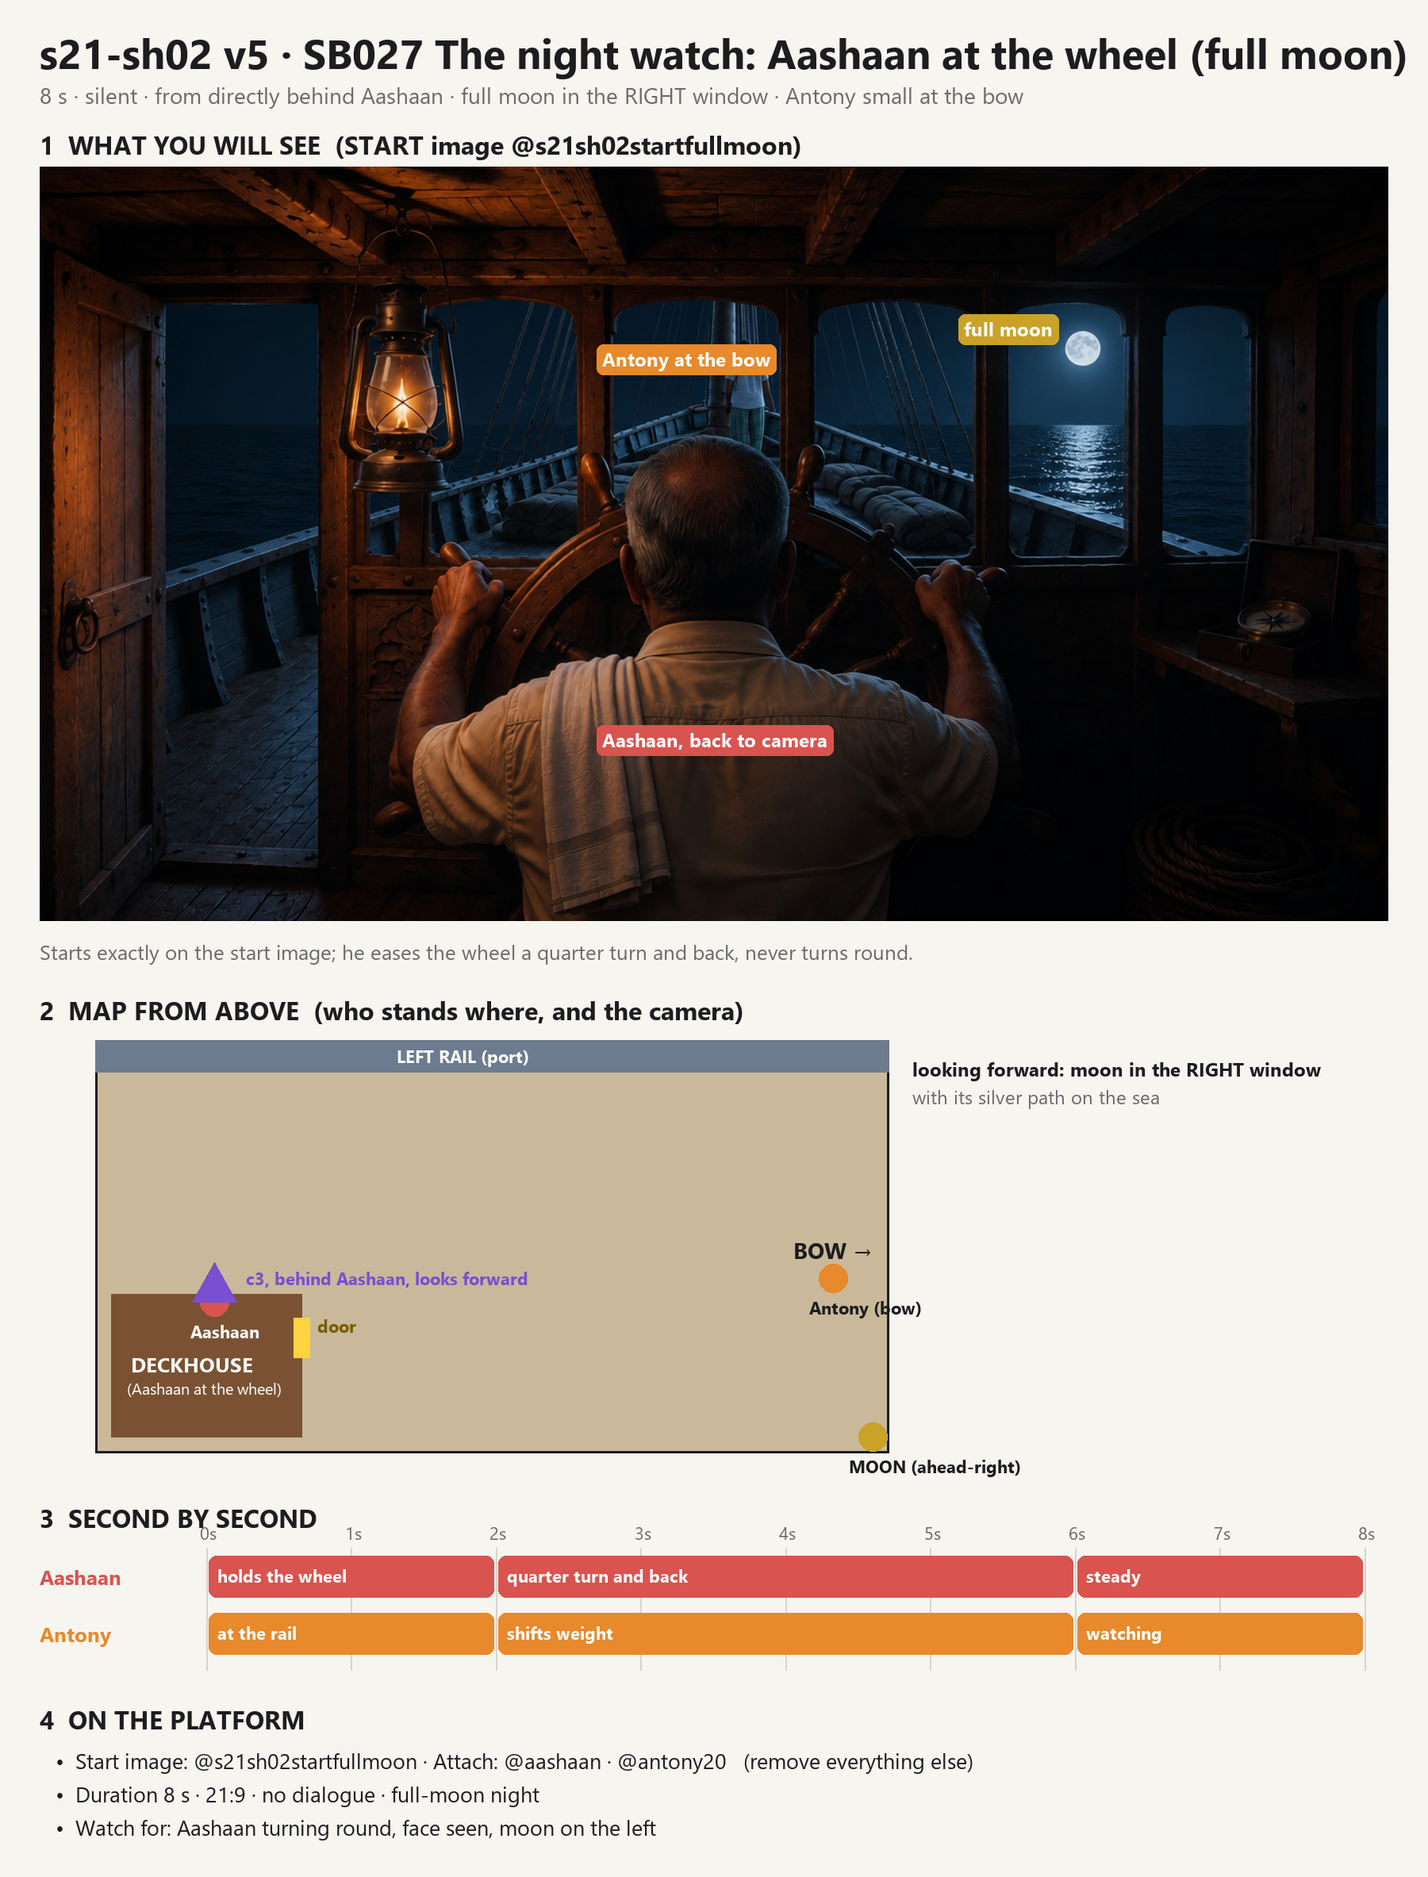
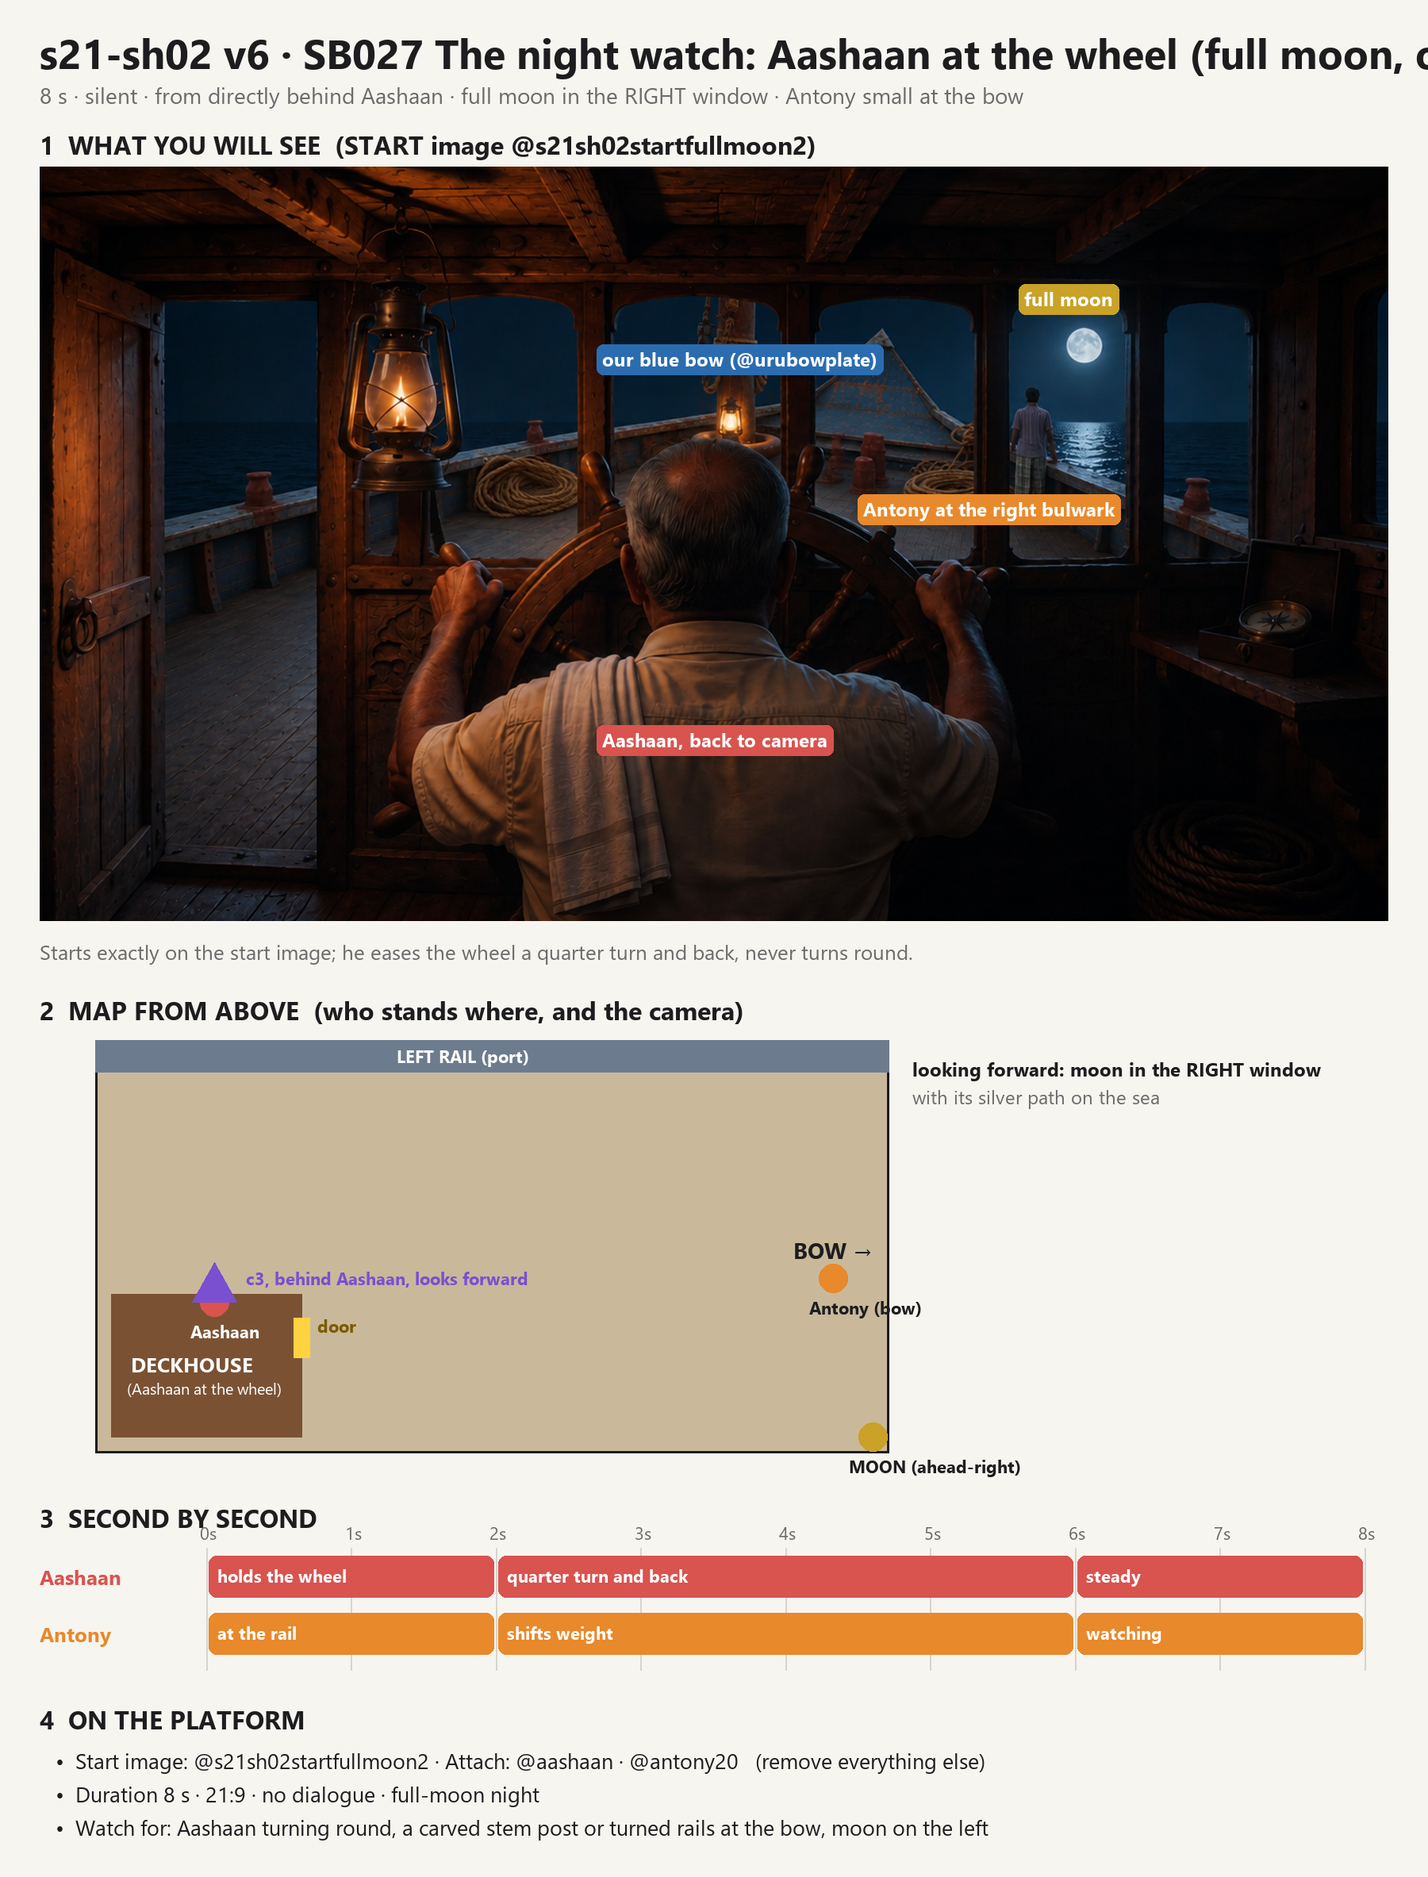
Ranjith: shot: s21-sh02 v6 (start frame with our bow)

diff --git a/scenes/showreel/retired/s21-sh02-v5.md b/scenes/showreel/retired/s21-sh02-v5.md
@@ -1,0 +1,78 @@
+# Shot s21-sh02 · SB027 The night watch, 2: Aashaan at the wheel inside the deckhouse (8 s, silent) — v5
+Status: **ready, proposal** (v5, full-moon redo, Ranjith 2026-11-11; v4 kept in `retired/s21-sh02-v4.md`). Wheel inside the deckhouse (Ranjith's option C, 2026-11-07). The storyboard's "Moosakka" at the wheel is Aashaan (Ranjith).
+Storyboard: SB027 · source scene 21–22 · emotion "Quiet" (silent shot, no tag) · storyboard sheet `storyboards/sb027-storyboard.png`
+Created by: Ranjith, 2026-11-07
+Camera position: urudeck-c3-helm-night (inside the deckhouse, about 2 m directly behind the wheel and a little above Aashaan's head, centred, looking forward through the windows to the bow)
+References: @s21sh02startfullmoon (start image), @aashaan (full, from behind), @antony20 (full, small at the bow)
+Reference sweep (left out, and why): @urudeckc3platenight: not attached with the start frame (the empty plate pulled the model to put Aashaan beyond the wheel, L82; the start frame already shows the wheelhouse). @uru: its own deckhouse (L51). @antonybag: not on him on night watch.
+Continuity: after SB022 (the uru left Cochin) and the voyage scenes SB023–SB026 (Ananthu, Aswanth). Next: SB028, Antony at the bow notices a distant light (same bow view).
+
+## History
+- v5 (2026-11-11): Ranjith: redone for the full-moon night in the look of his reference video (`continuity/night-fullmoon-look/`): full-moon plates, moon placed by the night sheet (L142), blue readable moonlight with one warm lantern. Only the light, the moon and the plate IDs changed (L114).
+- v4: start frame remade 2026-11-07 with Kling O1 for a natural, photographic low-light look (Ranjith found the GPT Image version cartoonish); old one kept as `approved/s21-sh02-start-v1.png`.
+- v4: starts on the start image `approved/s21-sh02-start.png` (@s21sh02start): Aashaan from directly behind, between the camera and the wheel; placement written relative to the camera; his face locked unseen (L82). v3: `retired/s21-sh02-v3.md`.
+- v2 take (2026-11-07, Ranjith) [failed]: the vest came out over the shirt, and Aashaan stood at the left of the wheel steering one-handed while looking aside. Evidence: `evidence/s21-sh02-v2-vest-over-shirt-one-hand.png`. Lesson L76. v2: `retired/s21-sh02-v2.md`.
+- v3: wider, from directly behind and a little above Aashaan, centred on him and the wheel, both hands on the spokes, body square; layering written in order; Antony small at the bow straight ahead. Blocking: `storyboards/sb027-blocking.png`.
+- v1 (2026-11-07): Aashaan at a wheel on the open deck, seen from the front. v2: inside the deckhouse from behind his shoulder, looking out at the bow where Antony keeps watch (ties to shot 3).
+
+## Prompt
+```
+SCENE
+Late at night, 1998, on the open sea, inside the deckhouse of the wooden cargo uru. One continuous shot that begins exactly on the start image. The camera is directly behind Aashaan's back: he stands between the camera and the wheel, facing away from the camera toward the windows, both hands on the spokes, steering the boat through the dark; beyond the wheel, through the open front windows, the moonlit deck and the bow, where Antony stands small at the bow rail keeping watch over the sea. Quiet. Nobody speaks.
+
+ACTIVE REFERENCES
+@s21sh02startfullmoon (start image, 0.0s): the first frame exactly as this image: Aashaan from directly behind in the foreground, centred, both hands on the wheel spokes, the wheel in front of him, the lantern at the left, the compass shelf at the right, the windows beyond with the moonlit deck, the bow, Antony small at the bow rail and the full moon high in the right-hand window; one warm lantern inside. 100% matches the reference.
+@aashaan (0.0s–8.0s, full): Aashaan, the skipper, about 60, stocky; seen only from behind: grey hair combed straight back and thinning at the crown, broad shoulders, the cream half-sleeve cotton shirt as his outer layer, a white cotton towel folded over his left shoulder, white mundu. 100% matches the reference.
+@antony20 (0.0s–8.0s, full, small in the distance): Antony seen only far off through the middle window, small at the bow rail, his back to the view, facing the sea; his clothes are exactly as in the reference: short-sleeve lavender-grey and white striped shirt and grey-green checked mundu, never a plain white shirt or trousers. 100% matches the reference.
+
+WHAT IS IN FRAME
+Only the inside of the deckhouse with the wheel, the lantern, the windows and the compass shelf, Aashaan's back in the foreground, and through the windows the moonlit deck, the mast, the bow, Antony small at the bow rail, and the night sea. Every frame looks like the film itself, with nothing from the making of it. No lettering anywhere.
+
+THE WHEELHOUSE (0.0s–8.0s)
+Exactly the layout of the start image, front to back along the view: the camera; then Aashaan, close to the camera, his back filling the lower middle of the frame; then the wheel, in front of HIM, on the far side from the camera; then the front wall with its open windows; then the deck, the mast and the bow with Antony at the rail; then the sea. Aashaan's face is never seen: only the back of his head, his shoulders, his back and his two hands on the spokes at about ten and two. He never turns round and never looks back at the camera.
+
+FIRST FRAME
+The start image, exactly.
+
+FORMAT MODE
+One continuous shot; the camera does not cut on its own. The video runs the full 8 seconds.
+
+OPTICS
+WS 63°, natural depth of field: Aashaan's shoulders and hands, the wheel, the windows and the bow all readable; Antony small but clear.
+
+CAMERA
+A locked-off, perfectly steady view from behind Aashaan's back, a little above his head, centred, level horizon; the whole view rises and falls very gently with the swell.
+
+ACTION
+0.0s to 2.0s: Still. Aashaan holds the wheel with both hands, facing away from the camera, looking out through the windows at the bow and the sea.
+2.0s to 6.0s: He feels the swell and turns the wheel a quarter turn to the right and back, hand over hand, both hands always on the spokes, his shoulders shifting with the turn, his back staying to the camera; far forward, Antony shifts his weight at the bow rail.
+6.0s to 8.0s: He settles both hands on the spokes and stands steady, breathing slowly, still facing away toward the bow; hold.
+
+PERFORMANCE
+Calm, practised steering: an old skipper square behind his wheel, steady shoulders, keeping his boat and his crew safe through the night.
+
+PHYSICS
+The lantern swings gently from the beam and its warm light moves over his shoulders, the back of his head, his hands and the wheel; the spokes turn under his hands; the towel on his shoulder stirs in the breeze through the open windows; outside, the bow rises and falls on the swell.
+
+LIGHTING
+Night, natural and low: one dim kerosene lantern gives a small warm pool on Aashaan's shoulders, the back of his head, his hands and the wheel, falling off into soft, readable shadow; through the windows a clear full-moon night: the round full moon high in the right-hand window, its silver path on a deep blue sea, the deck and the bow clearly readable in cool silver-blue moonlight; Antony a small figure against it, his clothes readable; a faint cool moon rim on Aashaan's shoulders.
+
+AUDIO
+Sound effects only — natural on-location sound, the soundtrack carries no music. No music at all: no score, no background music, no song, no humming, and no cinematic sound design: no riser, no whoosh, no swell, no rumble, no transition sound. Ambient at a steady level that does not build. No spoken words and no voices.
+0.0s–8.0s: the lantern's handle creaking on its hook, the deckhouse timbers creaking with the swell, water washing along the hull outside, a soft breeze through the open windows.
+2.0s–6.0s: the wooden spokes knocking softly as the wheel turns.
+
+STYLE
+Photoreal 1998 Kerala period feature film. Shot on a Sony Venice 2 full-frame digital cinema camera: very wide dynamic range that holds the warm lantern flame and the deep moonlit shadows in one frame; clean, low-noise shadows; soft, gradual highlight roll-off; accurate, natural colour with rich, true skin tones; gentle filmic contrast; fine, organic texture; no over-sharpening, no glossy or video look. Deep blue full-moon night palette, clear and readable, with one small warm lantern.
+
+POSITIVE LOCKS
+The shot stays as the start image: the camera behind Aashaan's back, Aashaan between the camera and the wheel, facing away toward the bow, both hands on the spokes the whole shot, his face never seen. Antony stays small at the bow rail through the middle window. Nobody speaks. Runs the full 8 seconds.
+```
+
+## Settings
+**Duration: set the platform to 8 s.** 16:9 · no dialogue · no emotion tag. **Start image: @s21sh02start** (`approved/s21-sh02-start.png`).
+
+## Generation results
+- v4 [partial] (2026-11-07, Ranjith) about 30% good, taken to the edit: setting and night look good, the camera behind Aashaan right; but Antony stood rigid like a statue at the bow and Aashaan's steering looked mechanical (L83).
+- v2 [failed] (2026-11-07, Ranjith) vest over the shirt; one-handed steering from the side of the wheel (L76).
+- v3 [failed] (2026-11-07, Ranjith) shirt and two hands right, but Aashaan stood on the far side of the wheel facing the camera: "behind the wheel" read from the camera, and the plate had no foreground room (L82). Evidence: `evidence/s21-sh02-v3-aashaan-faces-camera.png`.

diff --git a/scenes/showreel/s21-sh02.md b/scenes/showreel/s21-sh02.md
@@ -1,13 +1,14 @@
-# Shot s21-sh02 · SB027 The night watch, 2: Aashaan at the wheel inside the deckhouse (8 s, silent) — v5
-Status: **ready, proposal** (v5, full-moon redo, Ranjith 2026-11-11; v4 kept in `retired/s21-sh02-v4.md`). Wheel inside the deckhouse (Ranjith's option C, 2026-11-07). The storyboard's "Moosakka" at the wheel is Aashaan (Ranjith).
+# Shot s21-sh02 · SB027 The night watch, 2: Aashaan at the wheel inside the deckhouse (8 s, silent) — v6
+Status: **ready, proposal** (v6: start frame shows our bow, @urubowplate, L143; v5 kept in `retired/s21-sh02-v5.md`). Wheel inside the deckhouse (Ranjith's option C, 2026-11-07). The storyboard's "Moosakka" at the wheel is Aashaan (Ranjith).
 Storyboard: SB027 · source scene 21–22 · emotion "Quiet" (silent shot, no tag) · storyboard sheet `storyboards/sb027-storyboard.png`
 Created by: Ranjith, 2026-11-07
 Camera position: urudeck-c3-helm-night (inside the deckhouse, about 2 m directly behind the wheel and a little above Aashaan's head, centred, looking forward through the windows to the bow)
-References: @s21sh02startfullmoon (start image), @aashaan (full, from behind), @antony20 (full, small at the bow)
+References: @s21sh02startfullmoon2 (start image), @aashaan (full, from behind), @antony20 (full, small at the bow)
 Reference sweep (left out, and why): @urudeckc3platenight: not attached with the start frame (the empty plate pulled the model to put Aashaan beyond the wheel, L82; the start frame already shows the wheelhouse). @uru: its own deckhouse (L51). @antonybag: not on him on night watch.
 Continuity: after SB022 (the uru left Cochin) and the voyage scenes SB023–SB026 (Ananthu, Aswanth). Next: SB028, Antony at the bow notices a distant light (same bow view).
 
 ## History
+- v6 (2026-11-11): Ranjith: new start frame @s21sh02startfullmoon2 with Aswanth's bow through the windows (L143); the bow written in words and locked; Antony at the right-hand bulwark as in the start frame. Nothing else changed.
 - v5 (2026-11-11): Ranjith: redone for the full-moon night in the look of his reference video (`continuity/night-fullmoon-look/`): full-moon plates, moon placed by the night sheet (L142), blue readable moonlight with one warm lantern. Only the light, the moon and the plate IDs changed (L114).
 - v4: start frame remade 2026-11-07 with Kling O1 for a natural, photographic low-light look (Ranjith found the GPT Image version cartoonish); old one kept as `approved/s21-sh02-start-v1.png`.
 - v4: starts on the start image `approved/s21-sh02-start.png` (@s21sh02start): Aashaan from directly behind, between the camera and the wheel; placement written relative to the camera; his face locked unseen (L82). v3: `retired/s21-sh02-v3.md`.
@@ -21,15 +22,15 @@ SCENE
 Late at night, 1998, on the open sea, inside the deckhouse of the wooden cargo uru. One continuous shot that begins exactly on the start image. The camera is directly behind Aashaan's back: he stands between the camera and the wheel, facing away from the camera toward the windows, both hands on the spokes, steering the boat through the dark; beyond the wheel, through the open front windows, the moonlit deck and the bow, where Antony stands small at the bow rail keeping watch over the sea. Quiet. Nobody speaks.
 
 ACTIVE REFERENCES
-@s21sh02startfullmoon (start image, 0.0s): the first frame exactly as this image: Aashaan from directly behind in the foreground, centred, both hands on the wheel spokes, the wheel in front of him, the lantern at the left, the compass shelf at the right, the windows beyond with the moonlit deck, the bow, Antony small at the bow rail and the full moon high in the right-hand window; one warm lantern inside. 100% matches the reference.
+@s21sh02startfullmoon2 (start image, 0.0s): the first frame exactly as this image: Aashaan from directly behind in the foreground, centred, both hands on the wheel spokes, the wheel in front of him, the lantern at the left, the compass shelf at the right, the windows beyond with the moonlit deck, the mast with a small lantern at its foot, our bow (the closed blue triangular bow deck rising to a pointed stem, red-brown bitts in pairs, big rope coils), Antony small at the right-hand bulwark near the stem, and the full moon high in the right-hand window; one warm lantern inside. 100% matches the reference.
 @aashaan (0.0s–8.0s, full): Aashaan, the skipper, about 60, stocky; seen only from behind: grey hair combed straight back and thinning at the crown, broad shoulders, the cream half-sleeve cotton shirt as his outer layer, a white cotton towel folded over his left shoulder, white mundu. 100% matches the reference.
-@antony20 (0.0s–8.0s, full, small in the distance): Antony seen only far off through the middle window, small at the bow rail, his back to the view, facing the sea; his clothes are exactly as in the reference: short-sleeve lavender-grey and white striped shirt and grey-green checked mundu, never a plain white shirt or trousers. 100% matches the reference.
+@antony20 (0.0s–8.0s, full, small in the distance): Antony seen only far off through the windows, small at the right-hand bulwark near the pointed stem, his back to the view, facing the sea; his clothes are exactly as in the reference: short-sleeve lavender-grey and white striped shirt and grey-green checked mundu, never a plain white shirt or trousers. 100% matches the reference.
 
 WHAT IS IN FRAME
-Only the inside of the deckhouse with the wheel, the lantern, the windows and the compass shelf, Aashaan's back in the foreground, and through the windows the moonlit deck, the mast, the bow, Antony small at the bow rail, and the night sea. Every frame looks like the film itself, with nothing from the making of it. No lettering anywhere.
+Only the inside of the deckhouse with the wheel, the lantern, the windows and the compass shelf, Aashaan's back in the foreground, and through the windows the moonlit deck, the mast with its lantern, our blue bow with its bitts and rope coils, Antony small at the right-hand bulwark, and the night sea. Every frame looks like the film itself, with nothing from the making of it. No lettering anywhere.
 
 THE WHEELHOUSE (0.0s–8.0s)
-Exactly the layout of the start image, front to back along the view: the camera; then Aashaan, close to the camera, his back filling the lower middle of the frame; then the wheel, in front of HIM, on the far side from the camera; then the front wall with its open windows; then the deck, the mast and the bow with Antony at the rail; then the sea. Aashaan's face is never seen: only the back of his head, his shoulders, his back and his two hands on the spokes at about ten and two. He never turns round and never looks back at the camera.
+Exactly the layout of the start image, front to back along the view: the camera; then Aashaan, close to the camera, his back filling the lower middle of the frame; then the wheel, in front of HIM, on the far side from the camera; then the front wall with its open windows; then the deck, the mast and our blue bow with Antony at the right-hand bulwark; then the sea. Aashaan's face is never seen: only the back of his head, his shoulders, his back and his two hands on the spokes at about ten and two. He never turns round and never looks back at the camera.
 
 FIRST FRAME
 The start image, exactly.
@@ -66,7 +67,7 @@ STYLE
 Photoreal 1998 Kerala period feature film. Shot on a Sony Venice 2 full-frame digital cinema camera: very wide dynamic range that holds the warm lantern flame and the deep moonlit shadows in one frame; clean, low-noise shadows; soft, gradual highlight roll-off; accurate, natural colour with rich, true skin tones; gentle filmic contrast; fine, organic texture; no over-sharpening, no glossy or video look. Deep blue full-moon night palette, clear and readable, with one small warm lantern.
 
 POSITIVE LOCKS
-The shot stays as the start image: the camera behind Aashaan's back, Aashaan between the camera and the wheel, facing away toward the bow, both hands on the spokes the whole shot, his face never seen. Antony stays small at the bow rail through the middle window. Nobody speaks. Runs the full 8 seconds.
+The shot stays as the start image: the camera behind Aashaan's back, Aashaan between the camera and the wheel, facing away toward the bow, both hands on the spokes the whole shot, his face never seen. Antony stays small at the right-hand bulwark near the stem. The bow seen through the windows is our bow exactly as on the start image: blue triangular bow deck, pointed stem, red-brown bitts, rope coils; no carved stem post, no turned-post rails. Nobody speaks. Runs the full 8 seconds.
 ```
 
 ## Settings
